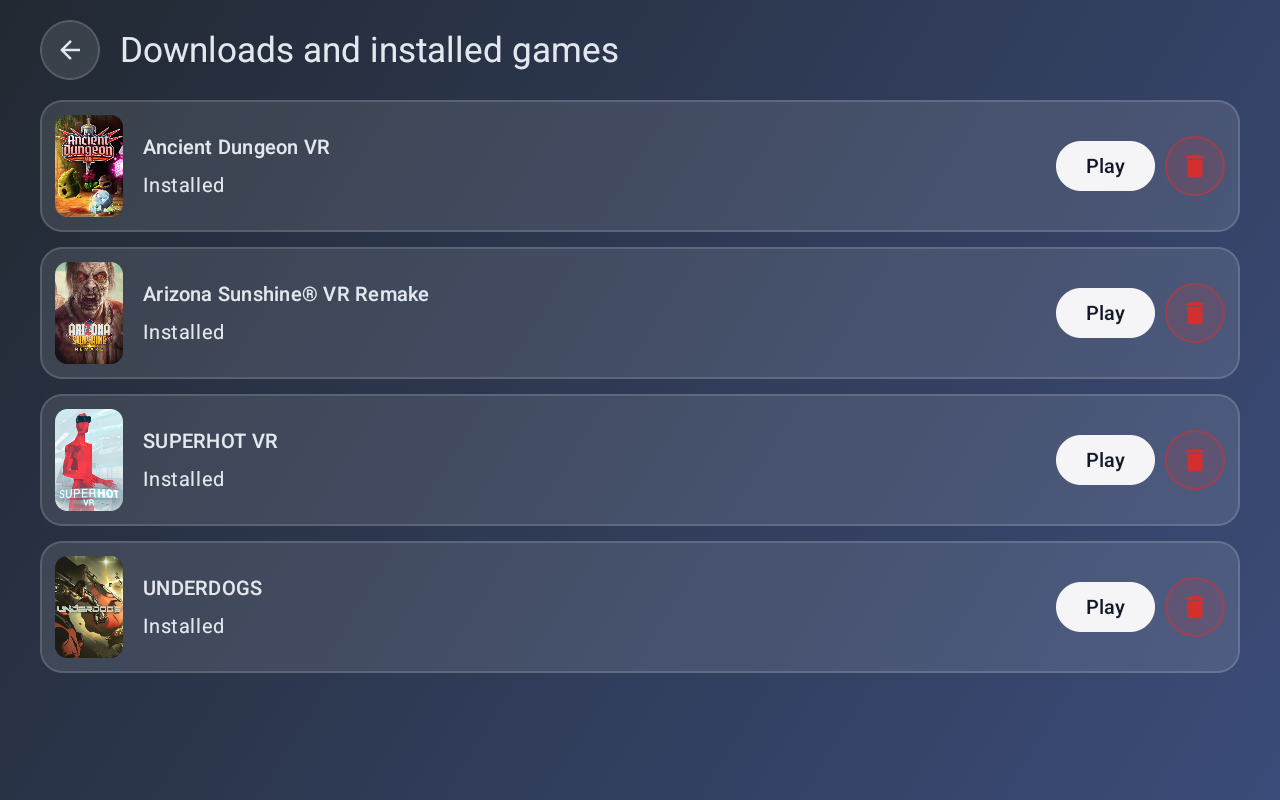
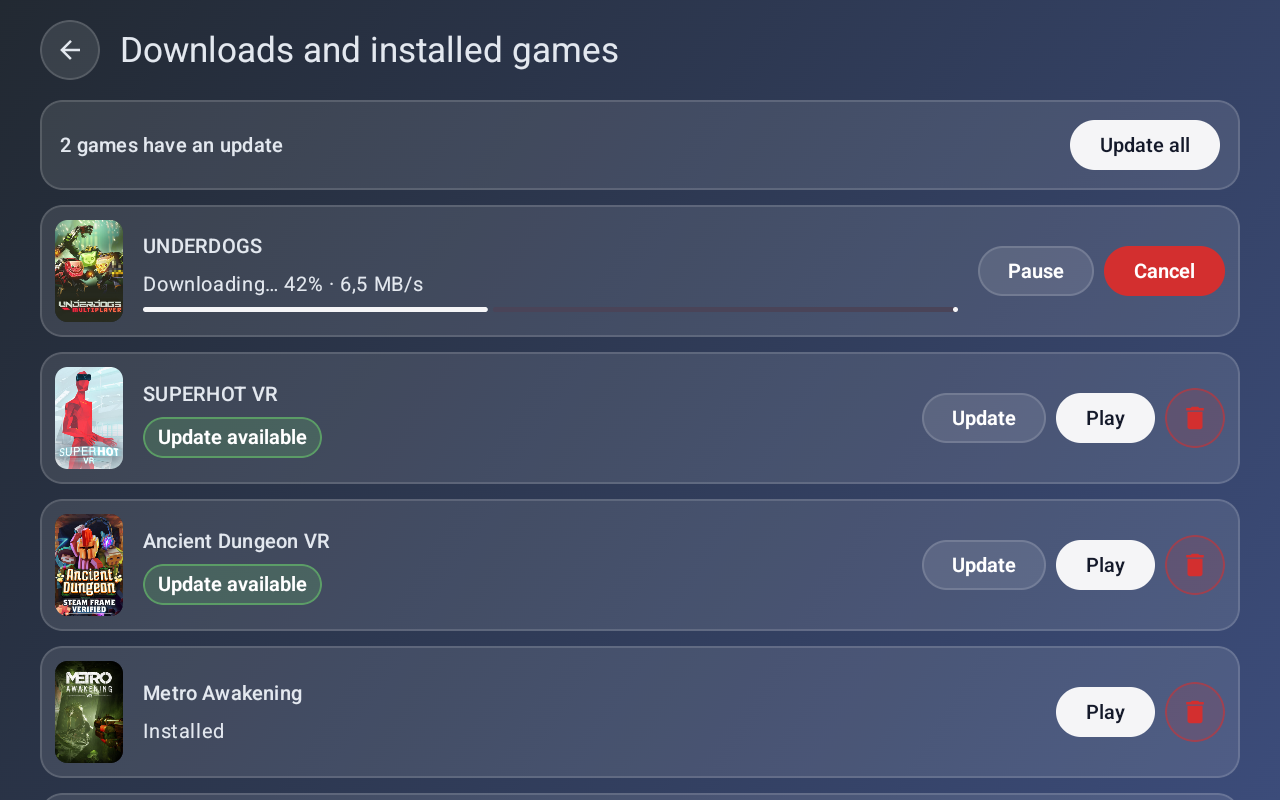
chore(release): prepare 0.6.0
Version 0.6.0 (code 600) and its release notes with three pictures, plus new screenshots of the home, the game page, the downloads, the actions menu and the hidden games. The patch generation is raised, since the hook, the patches and the binaries they inject changed since 0.5.1, so games patched by an earlier version offer to be patched again.

Changed region(s): [[0.0312, 0.125, 0.9688, 1.0]]

diff --git a/core/patch/src/main/kotlin/app/gameport/core/patch/PatchVersioning.kt b/core/patch/src/main/kotlin/app/gameport/core/patch/PatchVersioning.kt
@@ -16,7 +16,7 @@ import java.util.zip.CRC32
  *   to 0 when [GENERATION] is raised).
  */
 object PatchVersioning {
-    const val GENERATION = 1
+    const val GENERATION = 2
 
     /** Raised during development when the patches' logic changes; back to 0 at each release. */
     const val DEV_REVISION = 0

diff --git a/docs/releases/v0.6.0.md b/docs/releases/v0.6.0.md
@@ -1,0 +1,63 @@
+## GamePort 0.6.0
+
+### What's new in this version
+- **Self-update.** GamePort checks GitHub for a new version at start, every 4 hours by default (2 to 12 hours, or never, in Settings > Updates). The new version is shown with its changes and installs after a confirmation, never during a download, a patch or a sync. The 0.5.x versions need one manual install first.
+- **Offline mode.** A switch in Settings > Steam account. The library and the installed games stay available, and nothing is synced. If Steam cannot be reached, GamePort stays signed in and reconnects by itself. A notice shows the state.
+- **Report a problem.** A game that crashes, closes in under 30 seconds or fails to install offers the report on its page, with an attention point when it crashed or closed too fast. The bug button on the game's page creates a zip in Downloads, with the versions, the device, the game's files, the logs of the game and of GamePort, and how its last runs ended. Nothing is sent. Account numbers, e-mail addresses, network addresses and the account name are removed. What is kept for reports is deleted after a week.
+- **Downloads.** Pause, file check shown when a download resumes, speed for each game, the real reason of a failed install, and games with an update first.
+
+  <img src="../screenshots/downloads.png" alt="Downloads and installed games" width="360" />
+
+- **The right build.** When a download holds several builds of a game (phone, headset, watch), the one for the device is chosen, a watch build is never installed, and a choice is offered when none fits. This fixes SENSE: The Game Demo.
+- **Expansion files.** Unreal games with expansion files start.
+- **Covers.** Demos and playtests get their covers. A blue label marks demos and playtests, a green mark an update, an orange one a game that needs attention.
+
+  <img src="../screenshots/home.png" alt="The home, with the marks on the covers" width="360" />
+
+- **Hidden games.** A game can be hidden from the app, from its page or from the menu of actions that opens by holding its cover (play, update, patch again, settings, favorite, hide the game). Nothing changes on Steam. Hidden games are listed in Settings > Hidden games, where each can be shown again.
+
+  <img src="../screenshots/menu.png" alt="The actions of a game, opened by holding its cover" width="360" />
+
+- **Improvements.** Dialogs use the chosen background, the sign-in QR code is sharper, and going back twice quickly no longer leaves an empty screen.
+
+---
+
+### Install
+The APK is `GamePort-v0.6.0.apk`, below. On a Quest, developer mode is needed, with SideQuest or `adb install GamePort-v0.6.0.apk`. On a phone or a tablet, opening the file is enough. The sign-in uses a QR code scanned with the Steam app.
+
+It installs over 0.5.1 and keeps games, saves and settings. Games patched by an earlier version show an attention point, and patching them again brings the new fixes.
+
+GamePort is free and open source, and is not made by or affiliated with Valve, Meta or Pico. See the [README](https://github.com/gameport-project/gameport-app#readme).
+
+---
+
+## GamePort 0.6.0
+
+### Les nouveautés de cette version
+- **Mise à jour automatique.** GamePort cherche une nouvelle version sur GitHub au démarrage, toutes les 4 heures au plus par défaut (de 2 à 12 heures, ou jamais, dans Réglages > Mises à jour). La nouvelle version s'affiche avec ses changements et s'installe après confirmation, jamais pendant un téléchargement, un patch ou une synchronisation. Les versions 0.5.x demandent d'abord une installation à la main.
+- **Mode hors ligne.** Un interrupteur dans Réglages > Compte Steam. La bibliothèque et les jeux installés restent disponibles, et rien n'est synchronisé. Si Steam est injoignable, GamePort reste connectée et se reconnecte toute seule. Une pancarte indique l'état.
+- **Signaler un problème.** Un jeu qui plante, qui se ferme en moins de 30 secondes ou dont l'installation échoue propose le signalement dans sa fiche, avec un point d'attention quand il a planté ou s'est fermé trop vite. Le bouton bug de la page du jeu crée un zip dans Téléchargements, avec les versions, l'appareil, les fichiers du jeu, les journaux du jeu et de GamePort, et la fin de ses dernières exécutions. Rien n'est envoyé. Les numéros de compte, les adresses e-mail, les adresses réseau et le nom du compte sont retirés. Ce qui est gardé pour les rapports est supprimé après une semaine.
+- **Téléchargements.** Pause, vérification des fichiers affichée à la reprise, vitesse de chaque jeu, vraie raison d'une installation échouée, et jeux avec une mise à jour en premier.
+
+  <img src="../screenshots/downloads.png" alt="Téléchargements et jeux installés" width="360" />
+
+- **La bonne version d'un jeu.** Quand un téléchargement contient plusieurs versions d'un jeu (téléphone, casque, montre), celle de l'appareil est choisie, une version de montre n'est jamais installée, et un choix est proposé quand aucune ne convient. Cela règle SENSE: The Game Demo.
+- **Fichiers d'extension.** Les jeux Unreal avec des fichiers d'extension démarrent.
+- **Covers.** Les démos et les playtests ont leurs covers. Une étiquette bleue marque les démos et les playtests, une marque verte une mise à jour, une marque orange un jeu qui demande de l'attention.
+
+  <img src="../screenshots/home.png" alt="L'accueil, avec les marques sur les covers" width="360" />
+
+- **Jeux cachés.** Un jeu peut être caché de l'application, depuis sa page ou depuis le menu d'actions qui s'ouvre en maintenant sa cover (jouer, mettre à jour, patcher de nouveau, réglages, favori, cacher le jeu). Rien ne change sur Steam. Les jeux cachés sont listés dans Réglages > Jeux cachés, où chacun peut être réaffiché.
+
+  <img src="../screenshots/menu.png" alt="Les actions d'un jeu, ouvertes en maintenant sa cover" width="360" />
+
+- **Améliorations.** Les dialogues prennent le fond choisi, le QR code de connexion est plus net, et revenir deux fois de suite en arrière ne laisse plus un écran vide.
+
+---
+
+### Installer
+L'APK est `GamePort-v0.6.0.apk`, ci-dessous. Sur un Quest, le mode développeur est nécessaire, avec SideQuest ou `adb install GamePort-v0.6.0.apk`. Sur un téléphone ou une tablette, ouvrir le fichier suffit. La connexion passe par un QR code lu avec l'appli Steam.
+
+Elle s'installe par-dessus la 0.5.1 et garde jeux, sauvegardes et réglages. Les jeux patchés par une version précédente affichent un point d'attention, et les patcher de nouveau apporte les nouvelles corrections.
+
+GamePort est gratuite et open source, et n'est ni créée par Valve, Meta ou Pico, ni affiliée à eux. Voir le [README](https://github.com/gameport-project/gameport-app/blob/main/README.fr.md).

diff --git a/README.fr.md b/README.fr.md
@@ -26,6 +26,10 @@ GamePort est une appli gratuite et open source. Elle se connecte à ton compte S
   <img src="docs/screenshots/downloads.png" alt="Téléchargements et jeux installés" width="49%">
 </p>
 <p align="center">
+  <img src="docs/screenshots/menu.png" alt="Maintenir une cover ouvre ses actions : jouer, mettre à jour, patcher de nouveau, réglages, favori, cacher" width="49%">
+  <img src="docs/screenshots/hidden-games.png" alt="Les jeux cachés, listés dans les réglages avec un bouton pour réafficher chacun" width="49%">
+</p>
+<p align="center">
   <img src="docs/screenshots/saves.png" alt="Sauvegardes : cet appareil et le cloud Steam côte à côte" width="49%">
   <img src="docs/screenshots/controllers.png" alt="Le mappage des manettes d'un jeu" width="49%">
 </p>

diff --git a/README.md b/README.md
@@ -26,6 +26,10 @@ GamePort is a free, open-source app that signs in to your Steam account, shows t
   <img src="docs/screenshots/downloads.png" alt="Downloads and installed games" width="49%">
 </p>
 <p align="center">
+  <img src="docs/screenshots/menu.png" alt="Staying on a cover opens its actions: play, update, patch again, settings, favorite, hide" width="49%">
+  <img src="docs/screenshots/hidden-games.png" alt="Hidden games, listed in the settings with a button to show each again" width="49%">
+</p>
+<p align="center">
   <img src="docs/screenshots/saves.png" alt="Saves: this device and Steam Cloud side by side" width="49%">
   <img src="docs/screenshots/controllers.png" alt="Controller mapping for a game" width="49%">
 </p>
